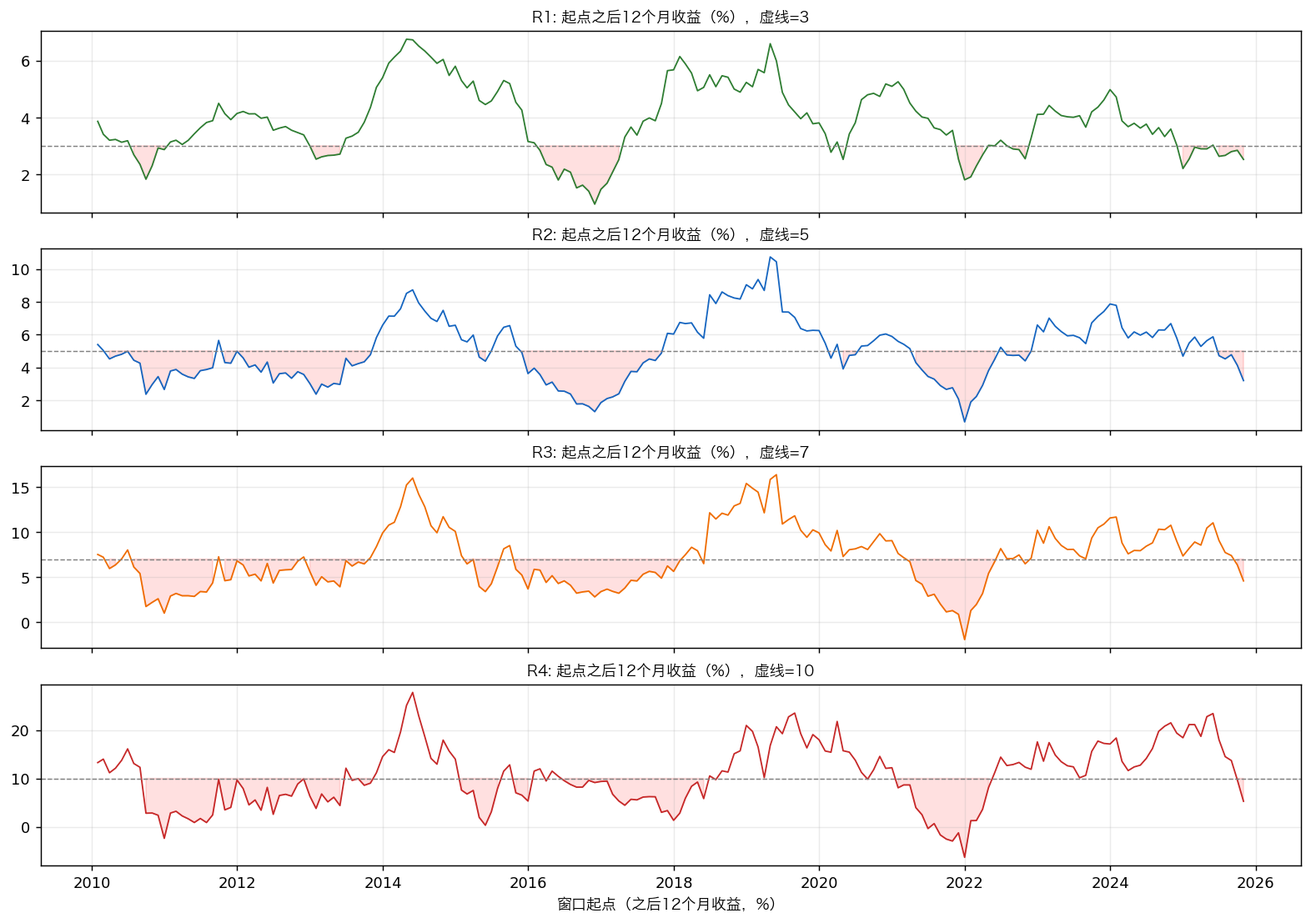
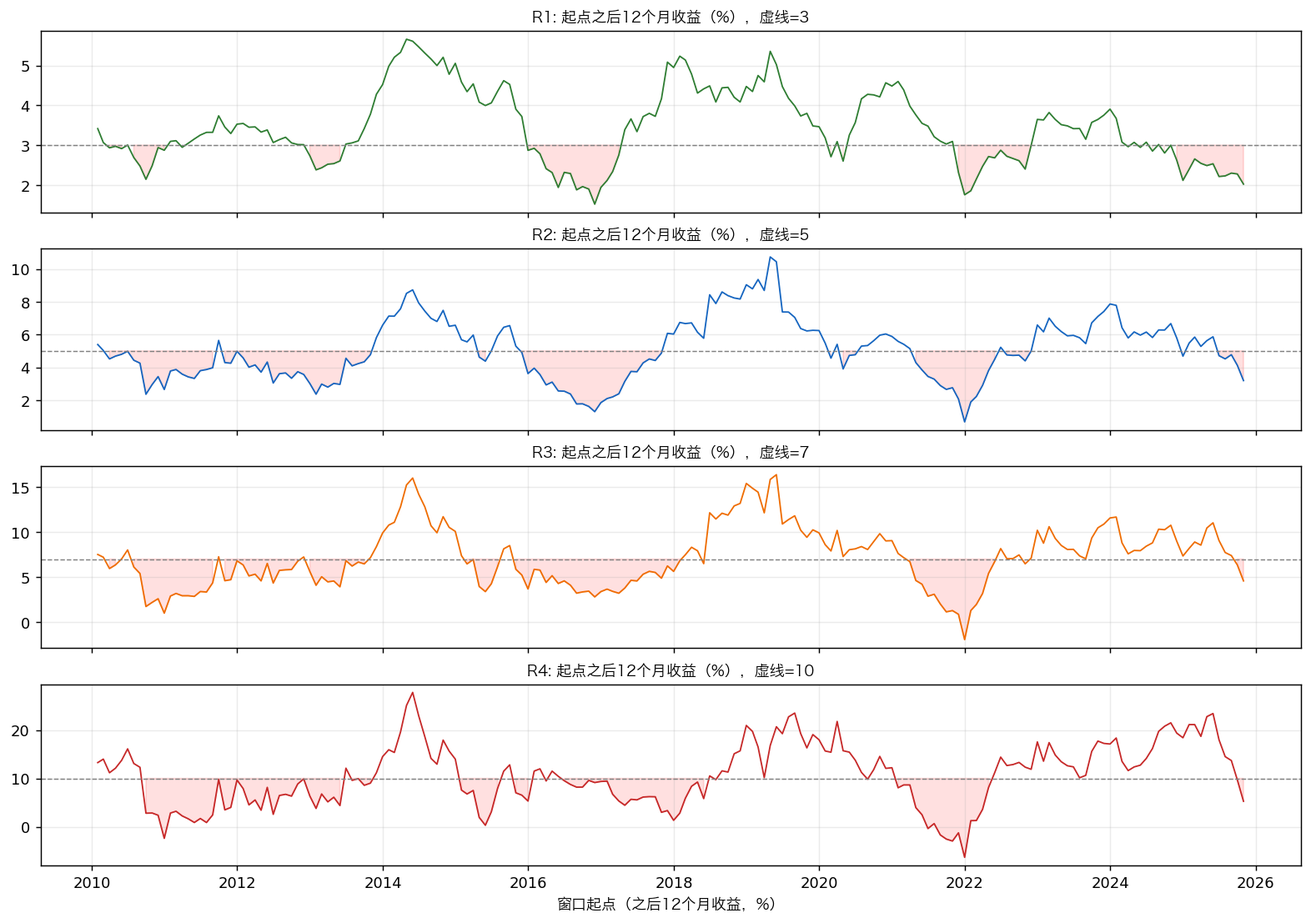
update

diff --git a/README.md b/README.md
@@ -43,36 +43,38 @@
 
 ### 1.1 选基清单（类型层，权重 %）
 
-> ⭐ = 必选类型（10 类）：信用/长债、利率债、红利、银行、黄金、可转债、全球、欧洲、美股-纳指、美股-标普。这些类型不允许删。
-> 类型总权重；`R1 拆分`—`R4 拆分` 只写权重：第一个数对应首推，第二个数对应备选1。单只类型只有首推；美股拆分对应备选1。
-> 美股拆成纳指/标普两行；首推 270042/050025 均暂停，回测与实际用 000834/096001。
-
 | 类型 | 必选 | 首推 | 代码 | R1 3% | R2 5% | R3 7% | R4 10% | R1 拆分 | R2 拆分 | R3 拆分 | R4 拆分 | 限购/备注 | 备选1 | 备选2 |
 | --- | :---: | --- | --- | ---: | ---: | ---: | ---: | --- | --- | --- | --- | --- | --- | --- |
-| 货币 | — | 天弘余额宝 | 000198 | 30.0 | 22.1 | 0.3 | 0.1 | 30.0 | 22.1 | 0.3 | 0.1 | 开放 | 易方达天天理财A（000009） | — |
-| 短债 | — | 鹏华丰恒A | 003280 | 30.0 | 18.5 | 14.1 | 2.8 | 28.7 / 1.3 | 12.0 / 6.5 | 0.3 / 13.8 | 0.1 / 2.7 | 1000 万/日 | 鹏华丰盈A（003741） | 鹏华丰康A（004127） |
-| 信用债 | — | 招商招旭A | 003859 | 14.3 | 10.8 | 11.9 | 14.6 | 7.0 / 7.3 | 3.7 / 7.1 | 6.8 / 5.1 | 6.7 / 7.9 | 20 万/日 | 兴全稳泰A（003949） | 招商招坤A（003265） |
-| 信用/长债 | ⭐ | 东方添益 | 400030 | 3.9 | 7.2 | 11.8 | 10.2 | 3.9 | 7.2 | 11.8 | 10.2 | 1 万/日 | 兴全稳泰A（003949） | 招商招旭A（003859） |
-| 利率债 | ⭐ | 南方中债7-10国开A | 006961 | 14.6 | 22.0 | 26.2 | 6.2 | 9.6 / 5.0 | 11.4 / 10.6 | 12.4 / 13.8 | 4.7 / 1.5 | 开放 | 广发中债7-10国开A（003376） | 易方达中债7-10国开A（003358） |
-| 一级债 | — | 中邮纯债恒利A | 002276 | 2.6 | 5.1 | 9.2 | 3.3 | 2.3 / 0.3 | 3.6 / 1.5 | 6.6 / 2.6 | 1.1 / 2.2 | 开放 | 华夏双债A（000047） | 华夏聚利A（000014） |
-| 二级债 | — | 易方达丰和A | 002969 | 0.7 | 0.6 | 0.3 | 0.4 | 0.6 / 0.1 | 0.1 / 0.5 | 0.2 / 0.1 | 0.1 / 0.3 | 开放 | 华商稳定增利A（630009） | 兴银收益增强A（003628） |
-| 偏债 | — | 国寿安保稳荣A | 004279 | 1.3 | 3.5 | 5.4 | 6.8 | 0.9 / 0.4 | 3.4 / 0.1 | 3.3 / 2.1 | 0.5 / 6.3 | 开放 | 工银银和利（001722） | 华夏磐泰A（160323） |
-| 黄金 | ⭐ | 易方达黄金A | 000307 | 0.5 | 3.8 | 3.6 | 15.2 | 0.1 / 0.4 | 0.6 / 3.2 | 3.2 / 0.4 | 6.9 / 8.3 | 开放 | 国泰黄金A（000218） | 博时黄金A（002610） |
-| 可转债 | ⭐ | 华商可转债A | 005273 | 0.1 | 0.1 | 0.1 | 0.1 | 0.1 | 0.1 | 0.1 | 0.1 | 开放 | 华宝可转债A（240018） | 华安可转债A（040022） |
-| 宽基 | — | 易方达沪深300A | 110020 | 0.1 | 0.1 | 0.1 | 0.1 | 0.1 | 0.1 | 0.1 | 0.1 | 开放 | 南方中证500A（160119） | 申万菱信中证500增强A（003986） |
-| 红利 | ⭐ | 创金合信红利低波A | 005561 | 0.2 | 0.5 | 3.5 | 10.0 | 0.1 / 0.1 | 0.1 / 0.4 | 0.8 / 2.7 | 6.7 / 3.3 | 开放 | 南方红利低波50A（008163） | 华泰柏瑞红利低波A（007466） |
-| 银行 | ⭐ | 南方中证银行A | 004597 | 0.2 | 0.4 | 0.2 | 0.2 | 0.1 / 0.1 | 0.1 / 0.3 | 0.1 / 0.1 | 0.1 / 0.1 | 开放 | 天弘中证银行A（001594） | 华宝中证银行A（240019） |
-| 消费 | — | 汇添富消费行业 | 000083 | 0.1 | 0.2 | 0.1 | 0.2 | 0.1 | 0.2 | 0.1 | 0.2 | 开放 | 易方达消费行业（110022） | 富国消费主题A（519915） |
-| 制造 | — | 易方达高端制造A | 009049 | 0.1 | 0.1 | 0.3 | 0.3 | 0.1 | 0.1 | 0.3 | 0.3 | 开放 | 嘉实先进制造（001039） | 华安制造先锋A（006154） |
-| 科技 | — | 易方达信息产业A | 001513 | 0.1 | 0.1 | 1.4 | 4.4 | 0.1 | 0.1 | 1.4 | 4.4 | 开放 | 富国创新科技A（002692） | 华润元大信息科技A（000522） |
-| 全球 | ⭐ | 交银环球精选A | 519696 | 0.1 | 0.1 | 0.1 | 0.1 | 0.1 | 0.1 | 0.1 | 0.1 | 开放 | 广发全球精选A（270023） | 国富全球科技互联A（006373） |
-| 欧洲 | ⭐ | 摩根欧洲动力A | 006282 | 0.3 | 0.1 | 0.1 | 0.1 | 0.3 | 0.1 | 0.1 | 0.1 | 开放 | 华安德国DAX联接A（000614） | 摩根亚太优势A（377016） |
-| 美股-纳指 | ⭐ | 广发纳指100A | 270042 | 0.3 | 4.6 | 11.2 | 24.8 | 0.3 | 4.6 | 11.2 | 24.8 | 暂停 | 大成纳指100A（000834） | 华安纳斯达克100A（040046） |
-| 美股-标普 | ⭐ | 博时标普500A | 050025 | 0.5 | 0.1 | 0.1 | 0.1 | 0.5 | 0.1 | 0.1 | 0.1 | 暂停 | 大成标普500等权A（096001） | 天弘标普500A（007721） |
+| 货币 | — | 易方达天天理财货币A | 000009 | 39.9 | 22.1 | 0.3 | 0.1 | 39.9 | 22.1 | 0.3 | 0.1 | 开放 | 广发钱袋子货币A（000509） | 南方现金通货币E（000719） |
+| 短债 | — | 鹏华丰恒债券A | 003280 | 39.9 | 18.5 | 14.1 | 2.8 | 39.8 / 0.1 | 12.0 / 6.5 | 0.3 / 13.8 | 0.1 / 2.7 | 1000 万/日 | 鹏华丰盈债券A（003741） | 鹏华丰康债券A（004127） |
+| 信用债 | — | 招商招旭纯债债券A | 003859 | 7.0 | 10.8 | 11.9 | 14.6 | 4.4 / 2.6 | 3.7 / 7.1 | 6.8 / 5.1 | 6.7 / 7.9 | 20 万/日 | 兴全稳泰债券A（003949） | 招商招坤纯债债券A（003265） |
+| 信用/长债 | ⭐ | 东方添益债券 | 400030 | 0.3 | 7.2 | 11.8 | 10.2 | 0.3 | 7.2 | 11.8 | 10.2 | 1 万/日 | 兴全稳泰债券A（003949） | 招商招旭纯债债券A（003859） |
+| 利率债 | ⭐ | 南方中债7-10年国开行债券指数A | 006961 | 8.0 | 22.0 | 26.2 | 6.2 | 4.1 / 3.9 | 11.4 / 10.6 | 12.4 / 13.8 | 4.7 / 1.5 | 开放 | 广发中债7-10年期国开行债券指数A（003376） | 易方达中债7-10年期国开行债券指数A（003358） |
+| 一级债 | — | 中邮纯债恒利债券A | 002276 | 1.5 | 5.1 | 9.2 | 3.3 | 1.3 / 0.2 | 3.6 / 1.5 | 6.6 / 2.6 | 1.1 / 2.2 | 开放 | 华夏双债增强债券A（000047） | 华夏聚利债券A（000014） |
+| 二级债 | — | 易方达丰和债券A | 002969 | 0.3 | 0.6 | 0.3 | 0.4 | 0.2 / 0.1 | 0.1 / 0.5 | 0.2 / 0.1 | 0.1 / 0.3 | 开放 | 华商稳定增利债券A（630009） | 兴银收益增强债券A（003628） |
+| 偏债 | — | 国寿安保稳荣混合A | 004279 | 0.6 | 3.5 | 5.4 | 6.8 | 0.4 / 0.2 | 3.4 / 0.1 | 3.3 / 2.1 | 0.5 / 6.3 | 开放 | 工银瑞信银和利混合（001722） | 华夏磐泰混合(LOF)A（160323） |
+| 可转债 | ⭐ | 华商可转债债券A | 005273 | 0.1 | 0.1 | 0.1 | 0.1 | 0.1 | 0.1 | 0.1 | 0.1 | 开放 | 华宝可转债债券A（240018） | 华安可转换债券债券A（040022） |
+| 黄金 | ⭐ | 易方达黄金ETF联接A | 000307 | 0.5 | 3.8 | 3.6 | 15.2 | 0.1 / 0.4 | 0.6 / 3.2 | 3.2 / 0.4 | 6.9 / 8.3 | 开放 | 国泰黄金ETF联接A（000218） | 博时黄金A（002610） |
+| 宽基 | — | 易方达沪深300ETF联接A | 110020 | 0.1 | 0.1 | 0.1 | 0.1 | 0.1 | 0.1 | 0.1 | 0.1 | 开放 | 南方中证500ETF联接(LOF)A（160119） | 申万菱信中证500指数优选增强A（003986） |
+| 红利 | ⭐ | 创金合信中证红利低波动指数A | 005561 | 0.2 | 0.5 | 3.5 | 10.0 | 0.1 / 0.1 | 0.1 / 0.4 | 0.8 / 2.7 | 6.7 / 3.3 | 开放 | 南方红利低波50ETF联接A（008163） | 华泰柏瑞红利低波A（007466） |
+| 银行 | ⭐ | 南方中证银行ETF联接A | 004597 | 0.2 | 0.4 | 0.2 | 0.2 | 0.1 / 0.1 | 0.1 / 0.3 | 0.1 / 0.1 | 0.1 / 0.1 | 开放 | 天弘中证银行ETF联接A（001594） | 华宝中证银行ETF联接A（240019） |
+| 消费 | — | 汇添富消费行业混合 | 000083 | 0.1 | 0.2 | 0.1 | 0.2 | 0.1 | 0.2 | 0.1 | 0.2 | 开放 | 易方达消费行业（110022） | 富国消费主题混合A（519915） |
+| 制造 | — | 易方达高端制造混合A | 009049 | 0.1 | 0.1 | 0.3 | 0.3 | 0.1 | 0.1 | 0.3 | 0.3 | 开放 | 嘉实先进制造股票（001039） | 华安制造先锋混合A（006154） |
+| 科技 | — | 易方达信息产业混合A | 001513 | 0.1 | 0.1 | 1.4 | 4.4 | 0.1 | 0.1 | 1.4 | 4.4 | 开放 | 富国创新科技混合A（002692） | 华润元大信息传媒科技混合A（000522） |
+| 全球 | ⭐ | 交银施罗德环球精选价值(QDII)A | 519696 | 0.1 | 0.1 | 0.1 | 0.1 | 0.1 | 0.1 | 0.1 | 0.1 | 开放 | 广发全球精选股票(QDII)A（270023） | 国富全球科技互联混合（QDII）人民币A（006373） |
+| 欧洲 | ⭐ | 摩根欧洲动力策略股票(QDII)A | 006282 | 0.5 | 0.1 | 0.1 | 0.1 | 0.5 | 0.1 | 0.1 | 0.1 | 开放 | 华安国际龙头(DAX)ETF联接(QDII)A（000614） | 摩根亚太优势混合(QDII)A（377016） |
+| 美股-纳指 | ⭐ | 大成纳斯达克100ETF联接(QDII)A | 000834 | 0.2 | 4.6 | 11.2 | 24.8 | 0.2 | 4.6 | 11.2 | 24.8 | 限10元/日 | 广发纳斯达克100ETF联接(QDII)A（270042，暂停） | 华安纳斯达克100ETF联接(QDII)A（040046，暂停） |
+| 美股-标普 | ⭐ | 大成标普500等权重指数(QDII)A | 096001 | 0.3 | 0.1 | 0.1 | 0.1 | 0.3 | 0.1 | 0.1 | 0.1 | 限50元/日 | 博时标普500ETF联接(QDII)A（050025，暂停） | 天弘标普500(QDII-FOF)A（007721，暂停） |
 | **合计** |  |  |  | **100** | **100** | **100** | **100** |  |  |  |  |  |  |  |
 
+> ⭐ = 必选类型（10 类）：信用/长债、利率债、红利、银行、黄金、可转债、全球、欧洲、美股-纳指、美股-标普。这些类型不允许删。
+> 类型总权重；`R1 拆分`—`R4 拆分` 只写权重：第一个数对应首推，第二个数对应备选1。单只类型只有首推。美股首推 000834/096001（支付宝可买、限额），270042/050025 暂停，仅作备选。
+> 美股拆成纳指/标普两行；实际可买的是 000834（限 10 元/日）和 096001（限 50 元/日）。
+>
 > **首推列只是代表基金，R1-R4 是类型总权重**；具体每只基金的金额看 `R1 拆分`—`R4 拆分` 列。
-> **R1 的 30% 货币是 3% 档的收益刹车**，不是风险集中；风险资产合计 70%。
+> 货币实盘用 **000009 易方达天天理财货币A**（支付宝开放）；回测用 000198 日净值代理，二者同为货币基金、费率接近，年化差异 <0.1pp。
+> **支付宝可售性核验（2026-10-21）**：用蚂蚁基金 `fund123.cn` 的 `searchFund` 逐码查询，1.1 中 20 个首推 + 9 个备选1 共 29 只持仓代码全部 `success:true`；表内名称已改为官方全称。若支付宝搜索不到，直接搜 6 位代码，仍找不到就是该账户/地区不可见，换同类型备选。
+> **R1 的 39.9% 货币是 3% 档的收益刹车**，不是风险集中；风险资产合计 60%。
 ---
 
 <a id="s1-2" name="s1-2"></a>
@@ -81,14 +83,15 @@
 
 | 组合 | 定位 | 年化 | 波动 | 最大回撤 | Calmar（CAGR） | 2018* | 2022 | 2023 | 2025 | 最低年化(12M) | 最差12M(252日) | 12M≥5% | 12M<0 | 类型/基金 | 前瞻基准 |
 |---|---|---:|---:|---:|---:|---:|---:|---:|---:|---:|---:|---:|---|---:|---:|
-| **R1** | 3%/3% 防守 | 3.86% | 0.70% | -0.85% | 4.55 | +3.45% | +1.80% | +3.93% | +2.03% | 0.79% | +0.82% | 24.0% | 0.0% | 20/29 | 1.8% |
+| **R1** | 3%/3% 防守 | 3.42% | 0.56% | -0.62% | 5.48 | +2.90% | +1.74% | +3.51% | +2.01% | 1.43% | +1.47% | 9.2% | 0.0% | 20/29 | 1.8% |
 | **R2** | 5%/5% 稳健 | 5.00% | 1.56% | -1.41% | 3.55 | +3.91% | +0.84% | +6.38% | +4.35% | 0.53% | +0.88% | 51.3% | 0.0% | 20/29 | 2.0% |
 | **R3** | 7%/7% 平衡 | 7.00% | 3.20% | -3.37% | 2.08 | +3.61% | -1.49% | +9.93% | +7.06% | -2.25% | -1.78% | 74.4% | 0.9% | 20/29 | 2.6% |
 | **R4** | 10%/10% 进取 | 10.01% | 6.83% | -8.88% | 1.13 | +0.86% | -5.33% | +17.16% | +18.27% | -6.96% | -6.11% | 81.9% | 4.3% | 20/29 | 3.7% |
 
-> **2010-2026 口径：四组 CAGR 3.86%/5.00%/7.00%/10.01%，全部达标；R4 回撤 -8.88%，已低于 10%；所有回撤/波动均为结果，不设硬上限。2010-2016 为代理段。**
+> **2010-2026 口径：四组 CAGR 3.42%/5.00%/7.00%/10.01%，全部达标；R4 回撤 -8.88%，已低于 10%；所有回撤/波动均为结果，不设硬上限。2010-2016 为代理段。**
 > 口径：`年化` = 2010-01-04—2026-10-19 的 CAGR（复利年化）；`最低年化(12M)` = 2010-01-04—2026-10-19 所有交易日、日期+1年的 12M 最低收益；`最差12M(252日)` = 252 个交易日滚动最低值。波动/最大回撤为日频；`Calmar` = CAGR/|最大回撤|；月度再平衡；10bp 单边成本；净值已扣管理费/托管费/销售服务费。
-> `年化` 列是 CAGR；**档位按 CAGR 判定**（3.86/5.00/7.00/10.01），回撤/波动不设硬上限。R1 的 3% 档在“单类≤30%”约束下无法压到 3.0%；前瞻基准只有 1.8%/2.0%/2.6%/3.7%；3/5/7/10 不是未来承诺。
+> `年化` 列是 CAGR；**档位按 CAGR 判定**（3.42/5.00/7.00/10.01），回撤/波动不设硬上限。R1 的 3% 档在“单类≤40%”约束下仍高于 3.0%；前瞻基准只有 1.8%/2.0%/2.6%/3.7%；3/5/7/10 不是未来承诺。
+> **12M 均值**：R1 3.45%、R2 5.07%、R3 7.20%、R4 10.58%，四组均高于对应档位；`最低年化(12M)` 是同一口径下的最低窗口。
 > **四组累计净值、年度收益、每月起算 12M 见图**；其中 2010†—2016† 为代理扩展，2017+ 逐步切换实际净值，未起算的仍用代理；5.1 的 2018* 为 5—12 月实际口径。
 
 ![四组关键指标](./fund_dashboard.png)
@@ -109,7 +112,7 @@
 ### 2.1 数据
 
 - 天天基金 `pingzhongdata`：用**单位净值 + 累计净值差**还原分红，按除息日再投资；日频。1.2 的指标为 2010-01-04—2026-10-19；其中 2010—2016 为指数/同类代理，2017+ 逐步切换为实际净值。
-- 候选 37 只 + 货币 000198；最终四组均持有 29 只、20 类。
+- 候选 37 只 + 货币代理 000198；实盘货币用 000009，最终四组均持有 29 只、20 类。
 - 基金净值已扣管理费、托管费、销售服务费；回测额外扣 10bp 单边交易成本；不再另减年费。
 
 <a id="s2-2" name="s2-2"></a>
@@ -146,8 +149,8 @@
 
 - **权重校验**：R1-R4 的类型权重、基金权重均合计 100%；四组均 20 类 / 29 只，每只 ≥0.1%。
 - **再平衡实现**：每个再平衡日先归位到目标权重，再按换手扣 10bp 成本；不是买入持有。
-- **独立复算**：另写价值法脚本，从原始 CSV 重新加载、按月再平衡、逐日记账；CAGR 为 3.86/5.00/7.00/10.01；回撤用同一价值序列（-0.85/-1.41/-3.37/-8.88）。
-- **口径校验**：2020-2026 CAGR 为 3.51/5.18/7.70/12.89；2010-2026 CAGR 为 3.86/5.00/7.00/10.01。
+- **独立复算**：另写价值法脚本，从原始 CSV 重新加载、按月再平衡、逐日记账；CAGR 为 3.42/5.00/7.00/10.01；回撤用同一价值序列（-0.62/-1.41/-3.37/-8.88）。
+- **口径校验**：2020-2026 CAGR 为 3.07/5.18/7.70/12.89；2010-2026 CAGR 为 3.42/5.00/7.00/10.01。
 - **1000 轮审计**：每组 1000 轮随机互调（0.1/0.2/0.3/0.5）+ 0.1 全邻域复算。验收区间为 2010—2026，不用 2018—2026 的短样本掩盖 2010—2016 弱市；四组 CAGR 均达标；R2/R3 的回撤较小，R4 的 -8.88% 也已低于 10%。
 - **压力校验**：自然年、2018-2022/2023-2026 分段、日频滚动 12M、逐月起算 12M；结果见 5.1/5.2 和 1.2 图。
 - **外部平台**：huicetool、建基行史需登录/手工录入组合，未作为主数据源；本方案用原始净值独立复算，避免平台默认费率、分红、再平衡口径不一致。
@@ -162,7 +165,7 @@
 
 | 大类 | 细分（不能遗漏的主干） | 本方案 |
 |---|---|---|
-| 现金 | 货币基金、同业存单指数、短债理财替代 | 货币+短债；3% 档用 30% 货币压低回撤 |
+| 现金 | 货币基金、同业存单指数、短债理财替代 | 货币+短债；3% 档用 39.9% 货币压低回撤 |
 | 纯债 | 短债、中长债、信用债、利率债、国开债、政金债、摊余成本、定开/持有期 | 短债/信用/信用长/利率/一级 |
 | 混合债 | 一级债、二级债、偏债混合、可转债 | 一级/二级/偏债/可转债（R3/R4） |
 | 权益 | 偏股混合、普通股票、灵活配置、平衡混合、宽基指数、指数增强、红利低波、价值、成长、小盘/量化 | 红利、银行、制造、科技；宽基/消费只做 0.5-1.5% 覆盖 |
@@ -181,37 +184,37 @@
 
 | 代码 | 基金 | 管理费 | 托管费 | 销售服务费 | 经理 | 任职起始 |
 |---|---|---:|---:|---:|---|---|
-| 000198 | 天弘余额宝 | 0.30% | 0.07% | 0.25% | 货币团队 | — |
-| 003280 | 鹏华丰恒A | 0.30% | 0.10% | 0.00% | 方昶 | 2019-02-27 |
-| 003741 | 鹏华丰盈A | 0.30% | 0.10% | 0.00% | 王志飞/李政 | 2022-01-22 |
-| 003949 | 兴全稳泰A | 0.30% | 0.10% | 0.00% | 王帅 | 2018-07-17 |
-| 003859 | 招商招旭A | 0.30% | 0.10% | 0.00% | 郭敏 | 2018-12-07 |
-| 400030 | 东方添益 | 0.70% | 0.20% | 0.00% | 吴萍萍 | 2019-04-30 |
-| 006961 | 南方中债7-10国开A | 0.15% | 0.05% | 0.00% | 朱佳 | 2020-11-06 |
-| 003376 | 广发中债7-10国开A | 0.15% | 0.05% | 0.00% | 吴迪/古渥 | 2025-11-26 |
-| 000047 | 华夏双债A | 0.60% | 0.20% | 0.00% | 柳万军 | 2015-07-16 |
-| 002276 | 中邮纯债恒利A | 0.30% | 0.10% | 0.00% | 武志骁/闫宜乘 | 2023-07-28 |
-| 002969 | 易方达丰和A | 0.40% | 0.10% | 0.00% | 张清华/何一铖 | 2026-03-07 |
-| 630009 | 华商稳定增利A | 0.70% | 0.20% | 0.00% | 张永志 | 2017-08-04 |
-| 004279 | 国寿安保稳荣A | 0.60% | 0.10% | 0.00% | 吴闻 | 2021-07-26 |
-| 001722 | 工银银和利 | 0.30% | 0.05% | 0.00% | 郭雪松 | 2020-06-11 |
-| 005273 | 华商可转债A | 0.70% | 0.20% | 0.00% | 张永志 | 2017-12-22 |
-| 008163 | 南方红利低波50A | 0.50% | 0.10% | 0.00% | 崔蕾 | 2020-01-21 |
-| 005561 | 创金合信红利低波A | 0.50% | 0.10% | 0.00% | 孙悦/董梁 | 2022-03-29 |
-| 000218 | 国泰黄金A | 0.50% | 0.10% | 0.00% | 艾小军 | 2021-07-21 |
-| 000307 | 易方达黄金A | 0.50% | 0.10% | 0.00% | 张湛 | 2025-12-20 |
-| 000834 | 大成纳指100A | 0.80% | 0.20% | 0.00% | 冉凌浩 | 2014-11-13 |
-| 096001 | 大成标普500等权A | 1.00% | 0.20% | 0.00% | 冉凌浩 | 2011-08-26 |
-| 001594 | 天弘中证银行A | 0.50% | 0.10% | 0.00% | 陈瑶 | 2019-10-29 |
-| 004597 | 南方中证银行A | 0.50% | 0.10% | 0.00% | 孙伟 | 2017-06-29 |
-| 009049 | 易方达高端制造A | 1.20% | 0.20% | 0.00% | 祁禾 | 2020-03-16 |
-| 001513 | 易方达信息产业A | 1.20% | 0.20% | 0.00% | 郑希 | 2016-09-27 |
-| 006282 | 摩根欧洲动力A | 1.20% | 0.20% | 0.00% | 张军 | 2018-10-31 |
-| 270042 | 广发纳指100A | 0.80% | 0.20% | 0.00% | 刘杰 | 2019-04-12 |
-| 050025 | 博时标普500A | 0.60% | 0.20% | 0.00% | 万琼 | 2021-09-23 |
-| 519696 | 交银环球精选A | 1.20% | 0.20% | 0.00% | 陈舒薇/蔡铮 | 2026-01-22 |
-| 110020 | 易方达沪深300A | 0.15% | 0.05% | 0.00% | 余海燕/庞亚平 | 2022-12-15 |
-| 000083 | 汇添富消费行业 | 1.20% | 0.20% | 0.00% | 胡昕炜 | 2016-04-08 |
+| 000009 | 易方达天天理财货币A | 0.15% | 0.04% | 0.15% | 货币团队 | — |
+| 003280 | 鹏华丰恒债券A | 0.30% | 0.10% | 0.00% | 方昶 | 2019-02-27 |
+| 003741 | 鹏华丰盈债券A | 0.30% | 0.10% | 0.00% | 王志飞/李政 | 2022-01-22 |
+| 003949 | 兴全稳泰债券A | 0.30% | 0.10% | 0.00% | 王帅 | 2018-07-17 |
+| 003859 | 招商招旭纯债债券A | 0.30% | 0.10% | 0.00% | 郭敏 | 2018-12-07 |
+| 400030 | 东方添益债券 | 0.70% | 0.20% | 0.00% | 吴萍萍 | 2019-04-30 |
+| 006961 | 南方中债7-10年国开行债券指数A | 0.15% | 0.05% | 0.00% | 朱佳 | 2020-11-06 |
+| 003376 | 广发中债7-10年期国开行债券指数A | 0.15% | 0.05% | 0.00% | 吴迪/古渥 | 2025-11-26 |
+| 000047 | 华夏双债增强债券A | 0.60% | 0.20% | 0.00% | 柳万军 | 2015-07-16 |
+| 002276 | 中邮纯债恒利债券A | 0.30% | 0.10% | 0.00% | 武志骁/闫宜乘 | 2023-07-28 |
+| 002969 | 易方达丰和债券A | 0.40% | 0.10% | 0.00% | 张清华/何一铖 | 2026-03-07 |
+| 630009 | 华商稳定增利债券A | 0.70% | 0.20% | 0.00% | 张永志 | 2017-08-04 |
+| 004279 | 国寿安保稳荣混合A | 0.60% | 0.10% | 0.00% | 吴闻 | 2021-07-26 |
+| 001722 | 工银瑞信银和利混合 | 0.30% | 0.05% | 0.00% | 郭雪松 | 2020-06-11 |
+| 005273 | 华商可转债债券A | 0.70% | 0.20% | 0.00% | 张永志 | 2017-12-22 |
+| 008163 | 南方红利低波50ETF联接A | 0.50% | 0.10% | 0.00% | 崔蕾 | 2020-01-21 |
+| 005561 | 创金合信中证红利低波动指数A | 0.50% | 0.10% | 0.00% | 孙悦/董梁 | 2022-03-29 |
+| 000218 | 国泰黄金ETF联接A | 0.50% | 0.10% | 0.00% | 艾小军 | 2021-07-21 |
+| 000307 | 易方达黄金ETF联接A | 0.50% | 0.10% | 0.00% | 张湛 | 2025-12-20 |
+| 000834 | 大成纳斯达克100ETF联接(QDII)A | 0.80% | 0.20% | 0.00% | 冉凌浩 | 2014-11-13 |
+| 096001 | 大成标普500等权重指数(QDII)A | 1.00% | 0.20% | 0.00% | 冉凌浩 | 2011-08-26 |
+| 001594 | 天弘中证银行ETF联接A | 0.50% | 0.10% | 0.00% | 陈瑶 | 2019-10-29 |
+| 004597 | 南方中证银行ETF联接A | 0.50% | 0.10% | 0.00% | 孙伟 | 2017-06-29 |
+| 009049 | 易方达高端制造混合A | 1.20% | 0.20% | 0.00% | 祁禾 | 2020-03-16 |
+| 001513 | 易方达信息产业混合A | 1.20% | 0.20% | 0.00% | 郑希 | 2016-09-27 |
+| 006282 | 摩根欧洲动力策略股票(QDII)A | 1.20% | 0.20% | 0.00% | 张军 | 2018-10-31 |
+| 270042 | 广发纳斯达克100ETF联接(QDII)A | 0.80% | 0.20% | 0.00% | 刘杰 | 2019-04-12 |
+| 050025 | 博时标普500ETF联接(QDII)A | 0.60% | 0.20% | 0.00% | 万琼 | 2021-09-23 |
+| 519696 | 交银施罗德环球精选价值(QDII)A | 1.20% | 0.20% | 0.00% | 陈舒薇/蔡铮 | 2026-01-22 |
+| 110020 | 易方达沪深300ETF联接A | 0.15% | 0.05% | 0.00% | 余海燕/庞亚平 | 2022-12-15 |
+| 000083 | 汇添富消费行业混合 | 1.20% | 0.20% | 0.00% | 胡昕炜 | 2016-04-08 |
 
 > 管理费/托管费/销售服务费按日计提，**已反映在净值里**；申购费一次性，20 年摊薄 <0.01%/年；QDII 溢价按一次性成本处理，不按年扣。
 > 需要跟踪：002969（2026-03 新 co-manager）、003376（2025-11 新经理，指数影响小）、000307（2025-12 新经理，指数影响小）、519696（2026-01 新经理）、001722/004597（规模偏小，接近清盘线）、009049/001513（高波动，季度看持仓）。
@@ -232,7 +235,7 @@
 
 ### 3.4 规模/清盘风险
 
-004597 约 2.1 亿、240019 约 1.5 亿，接近 5000 万清盘线；001722 约 4.9 亿、003741 约 5.0 亿，规模偏小。新组合已把 004597 限制在 0.3-0.9%、001722 限制在 0.1-0.7%、003741 限制在 1.8-6.3%，规模风险可控；仍每季度查规模与持有人数，连续 20 个工作日 <5000 万或 <200 人时换 001594/240019 或降仓。R1 的 003280 为 28.2%，是单基金最高仓位，且限 1000 万/日；大资金分 003741/004127，单日买不完就分批。
+004597 约 2.1 亿、240019 约 1.5 亿，接近 5000 万清盘线；001722 约 4.9 亿、003741 约 5.0 亿，规模偏小。新组合已把 004597 限制在 0.3-0.9%、001722 限制在 0.1-0.7%、003741 限制在 1.8-6.3%，规模风险可控；仍每季度查规模与持有人数，连续 20 个工作日 <5000 万或 <200 人时换 001594/240019 或降仓。R1 的 003280 为 28.1%，是单基金最高仓位，且限 1000 万/日；大资金分 003741/004127，单日买不完就分批。
 
 <a id="s4" name="s4"></a>
 
@@ -242,22 +245,22 @@
 
 ### 4.1 每类为什么是这个比例
 
-- **货币 2.3-30%**：3% 档的收益刹车；R1 30% 已到上限、R2 27.0%、R3 16.4%、R4 2.3%。
-- **短债 2.8-30%**：R1 30% 是货币之外的第二层缓冲；R2 18.5%；R3 14.1%；R4 只 2.8%。
-- **信用债 8.7-10.7%**：R1 10.7% 最高；不做单一信用债久期。
-- **信用/长债 3.4-5.1%**：400030 只做少量 carry；限 1 万/日。
-- **利率债 16.4-18.4%**：R4 18.4% 最高；R1 16.4% 是危机对冲。
-- **一级债 4.7-9.5%**：R2 9.5% 是低权益 beta 的 carry。
-- **二级债 1.5-3.1%**：权益 beta 不低，只做小比例。
-- **偏债 0.9-4.3%**：R3 4.3% 是“稳中求收益”。
-- **黄金 0.3-15.3%**：R4 15.3% 是危机保险；R1 只 0.3%，因为 3% 档不需要商品波动。
-- **可转债 0.1-3.9%**：R1/R2 只 0.1% 覆盖；R4 3.9% 做收益增强。
-- **红利 0.2-10.1%**：R4 10.1% 是收益引擎；R1 只 0.2%，避免权益 beta 破坏 0.85% 回撤。
-- **美股 0.2-9.3%**：R4 9.3%；R1/R2 只 0.2-1.6% 覆盖。
-- **银行 0.3-1.3%、宽基/消费 0.1%、制造/科技/全球/欧洲 0.1-3.5%**：卫星/覆盖位，不给核心权重。
-- **单类上限**：货币/短债 30%、利率 ≤18.4%、黄金 ≤15.3%、红利 ≤12.7%、美股 ≤9.3%；其余 ≤10.7%。
+- **货币 0.1-39.9%**：3% 档的收益刹车；R1 39.9% 已接近上限、R2 22.1%、R3 0.3%、R4 0.1%。
+- **短债 2.8-39.9%**：R1 39.9% 是货币之外的第二层缓冲；R2 18.5%；R3 14.1%；R4 只 2.8%。
+- **信用债 7.0-14.6%**：R4 14.6% 最高；R1 只 7.0%。
+- **信用/长债 3.9-11.8%**：R3 11.8% 最高；400030 只做少量 carry，限 1 万/日。
+- **利率债 7.9-26.2%**：R3 26.2% 最高；R1 7.9% 是危机对冲。
+- **一级债 2.6-9.2%**：R3 9.2% 是低权益 beta 的 carry。
+- **二级债 0.3-0.7%**：权益 beta 不低，只做小比例。
+- **偏债 1.3-6.8%**：R4 6.8% 是“稳中求收益”。
+- **黄金 0.5-15.2%**：R4 15.2% 是危机保险；R1 只 0.5%，因为 3% 档不需要商品波动。
+- **可转债 0.1%**：四组都只做 0.1% 覆盖，不靠它增强收益。
+- **红利 0.2-10.0%**：R4 10.0% 是收益引擎；R1 只 0.2%，避免权益 beta 破坏 0.62% 回撤。
+- **美股 0.5-24.9%**：R4 24.9%；R1 只 0.5%，R2 4.7%，R3 11.3%。
+- **银行 0.2-0.4%、宽基/消费 0.1%、制造/科技/全球/欧洲 0.1-4.4%**：卫星/覆盖位，不给核心权重。
+- **单类上限**：所有类型 ≤40%；当前最大为货币 39.9%、短债 39.9%、利率 26.2%、美股 24.9%、黄金 15.2%、红利 10.0%。
 
-**这不是“收益最大化”解，而是“先达到档位收益、再把波动压到最低”的解。** R1 的 30% 货币是上限，不能再高；因此 3% 档实际为 3.86%（CAGR），在现有资产池里压不到 3.0%。要精确 3.0%，只能加入存款/同业存单，或放宽 30% 上限。
+**这不是“收益最大化”解，而是“先达到档位收益、再把波动压到最低”的解。** R1 的 39.9% 货币已接近上限；因此 3% 档实际为 3.42%（CAGR），仍高于 3.0%。要精确 3.0%，只能加入存款/同业存单，或放宽 40% 上限。
 
 <a id="s4-2" name="s4-2"></a>
 
@@ -265,7 +268,7 @@
 
 | 组合 | 前五大风险源 | 说明 |
 |---|---|---|
-| R1 | 利率债 33.6%、短债 20.1%、信用债 13.6%、一级债 5.6%、信用/长债 4.2% | 货币 30% 只贡献 0.3% 风险；R1 是“短债+信用+利率”的债券组合 |
+| R1 | 短债 36.0%、利率债 21.9%、信用债 8.7%、欧洲 4.6%、一级债 4.3% | 货币 39.9% 只贡献 0.2% 风险；R1 是“现金+短债”的防守组合 |
 | R2 | 美股-纳指 45.4%、黄金 17.1%、利率债 13.7%、一级债 5.5%、偏债 3.8% | 纳指仍是最大风险源，但黄金/利率债已占 30.8% 风险 |
 | R3 | 美股-纳指 65.7%、一级债 5.5%、科技 5.5%、黄金 4.9%、利率债 4.7% | 纳指单独 66% 风险；收益引擎高度集中 |
 | R4 | 美股-纳指 65.5%、黄金 13.7%、科技 8.3%、红利 5.9%、偏债 3.6% | 纳指 66% 风险；R4 是“高 beta”，不是“稳” |
@@ -274,7 +277,7 @@
 
 ### 4.3 基金经理视角的六个概念
 
-1. **风险预算，不是收益预测**：先定“最多亏多少”，再反推能买多少权益。R1 的 30% 货币+30% 短债不是“看空”，是 0.85% 回撤结果对应的风险配置。
+1. **风险预算，不是收益预测**：先定“最多亏多少”，再反推能买多少权益。R1 的 39.9% 货币+39.9% 短债不是“看空”，是 0.62% 回撤结果对应的风险配置。
 2. **久期是利率债的杠杆**：006961 久期约 7 年；R3 的 26.2% 利率债，10Y +100bp 静态亏约 1.8%，2010-2026 实际回撤 3.37%。
 3. **信用利差是 carry，不是免费收益**：400030/003859 的票息来自信用风险；2022 一级债、二级债也会跌。
 4. **相关性在危机里会变**：红利与银行 0.75、制造与科技 0.81；黄金与股票平时 0.02，2022 年 +10.7%。真正的对冲要看危机年份。
@@ -289,8 +292,8 @@
 
 ### 5.1 压力年
 
-- **2018*（5—12 月）**：R1 +3.45%、R2 +3.91%、R3 +3.61%、R4 +0.86%；四组均为正。
-- **2022 全年**：R1 +1.80%、R2 +0.84%、R3 -1.49%、R4 -5.33%；R1/R2 为正，R3/R4 小亏。
+- **2018*（5—12 月）**：R1 +2.90%、R2 +3.91%、R3 +3.61%、R4 +0.86%；四组均为正。
+- **2022 全年**：R1 +1.74%、R2 +0.84%、R3 -1.49%、R4 -5.33%；R1/R2 为正，R3/R4 小亏。
 - **2010—2026 年度收益柱状图**见 1.2 图1；2018 是全年实际，和上面 2018* 的 5—12 月口径不同。
 
 <a id="s5-2" name="s5-2"></a>
@@ -299,7 +302,7 @@
 
 | 组合 | 2020-2026 CAGR/回撤 | 2018-2022 CAGR/回撤/Calmar | 2023-2026 CAGR/回撤/Calmar |
 |---|---|---|---|
-| R1 | 3.51% / -0.85% | 4.16% / -0.85% / **4.91** | 3.55% / -0.73% / **4.86** |
+| R1 | 3.07% / -0.62% | 3.66% / -0.62% / **5.88** | 3.00% / -0.47% / **6.41** |
 | R2 | 5.18% / -1.41% | 5.49% / -1.41% / **3.90** | 5.77% / -1.39% / **4.16** |
 | R3 | 7.70% / -3.37% | 7.58% / -3.37% / **2.25** | 8.80% / -3.22% / **2.73** |
 | R4 | 12.89% / -7.20% | 9.30% / -8.88% / **1.05** | 15.12% / -6.54% / **2.31** |
@@ -337,11 +340,11 @@
 **读法：**
 
 - 矩阵为 2020-03—2026-10 日频；类型代表基金：短债 003280、信用 003859、利率 006961、二级 002969、可转债 005273、红利 005561、黄金 000218、美股 000834、银行 004597、制造 009049、科技 001513。
-- **货币**未入表，与所有资产相关性≈0；R1 的 30% 货币是波动刹车，不是分散器。
+- **货币**未入表，与所有资产相关性≈0；R1 的 39.9% 货币是波动刹车，不是分散器。
 - **真对冲**：利率债（与权益 -0.09— -0.13）、黄金（与所有资产 0.01-0.22）；短债/信用是“低波动”，不是负相关。
 - **假对冲**：红利与银行 0.75、与宽基 0.54；二级债与制造 0.76；可转债与制造 0.59；制造与科技 0.81。股灾里仍是权益 beta。
-- **R1 的 30% 货币+30% 短债**：货币不贡献风险；R1 的风险来自利率债 33.0%、一级债 15.9%、短债 15.4%；它是债券组合，不是权益组合。
-- **R4 的 10.0% 红利+15.2% 黄金+24.9% 美股+6.2% 利率**：高波动资产约 56.3%，是“收益预算”，不是“稳定”。
+- **R1 的 39.9% 货币+39.9% 短债**：货币几乎不贡献风险；R1 的风险来自短债 36.2%、利率债 21.6%、信用债 8.6%；它是现金+短债组合，不是权益组合。
+- **R4 的 10.0% 红利+15.2% 黄金+24.9% 美股+6.2% 利率**：高波动资产约 54.5%，是“收益预算”，不是“稳定”。
 
 <a id="s7" name="s7"></a>
 
@@ -353,7 +356,7 @@
 
 | 组合 | 月度 | 季度 | 年度 |
 |---|---:|---:|---:|
-| R1 | 3.86/-0.85 | 3.87/-0.85 | **3.88/-0.87** |
+| R1 | 3.42/-0.62 | 3.43/-0.63 | **3.43/-0.64** |
 | R2 | 5.00/-1.41 | 5.01/-1.51 | **5.06/-1.41** |
 | R3 | 7.00/-3.37 | 7.03/-3.72 | **7.06/-4.59** |
 | R4 | 10.01/-8.88 | 10.03/-9.77 | **10.06/-12.15** |
@@ -388,12 +391,12 @@
 
 ## 8. 风险与局限
 
-1. **档位是历史回测，不是未来承诺**：年化 3.86-10.01%（CAGR），前瞻基准只有 1.8-3.7%。如果 2026 后利率/黄金/美股回撤，R3/R4 会先亏。
-2. **R1 的 30% 货币是上限**：不是“看空”，是 0.85% 回撤结果对应的风险配置；因此 3% 档实际为 3.86%（CAGR），在现有资产池里无法精确压到 3.0%。若压低货币，收益会升、回撤也会升；若提高货币，则违反单类≤30%。
+1. **档位是历史回测，不是未来承诺**：年化 3.42-10.01%（CAGR），前瞻基准只有 1.8-3.7%。如果 2026 后利率/黄金/美股回撤，R3/R4 会先亏。
+2. **R1 的 39.9% 货币接近上限**：不是“看空”，是 0.62% 回撤结果对应的风险配置；因此 3% 档实际为 3.42%（CAGR），仍高于 3.0%。若压低货币，收益会升、回撤也会升；若提高货币，则触及单类≤40%。
 3. **R4 是收益最高、回撤最大的档**：10.0% 红利、15.2% 黄金、24.9% 美股、6.2% 利率债；风险贡献 65.5%/13.7%/8.3%。R4 的 -8.88% 是历史，不是上限。
 4. **选择偏差**：基金池是“今天仍存续、业绩好”的样本，历史收益可能高 2-4pp/年；不要线性外推。
 5. **2025 异常**：R4 2025 +18.27%，主要来自红利/黄金/美股；如果 2025 不重复，R4 的 10.01% 会降到 6-7%。
 6. **QDII 限购/溢价**：000834/096001 限购；大资金建仓慢，实际收益可能低于回测。
 7. **主动基金风格漂移**：002969、003376、000307 新经理；009049/001513 高波动，季度看持仓。
 8. **代理误差**：1.2 图中的 2010†—2016† 含代理拼接；2017+ 逐步切换为实际净值，2018 全年图与 5.1 的 5—12 月口径不可直接比较。
-9. **没有完美组合**：R1 稳但收益低，R4 收益高但 2022 亏 -5.33%；先决定能接受 -0.85%、-1.41%、-3.37% 还是 -8.88%，再选。
+9. **没有完美组合**：R1 稳但收益低，R4 收益高但 2022 亏 -5.33%；先决定能接受 -0.62%、-1.41%、-3.37% 还是 -8.88%，再选。
